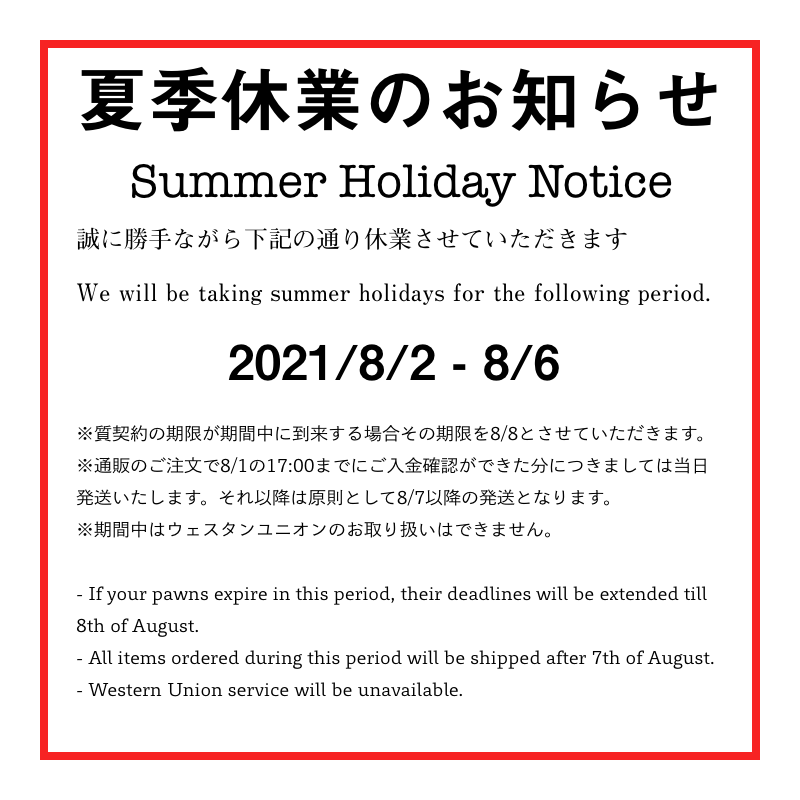
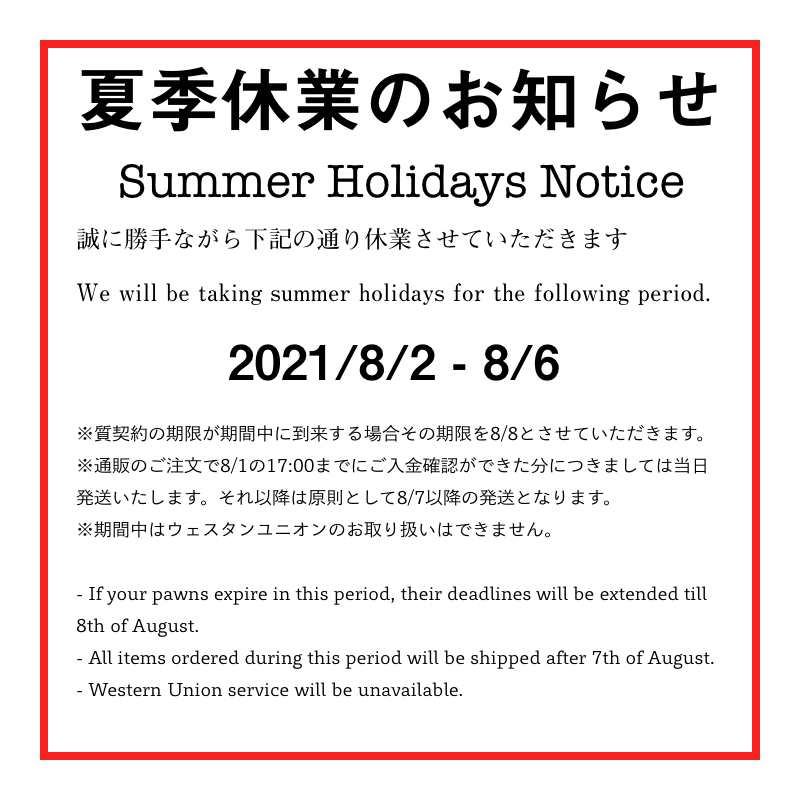
add news for summer holidays

Changed region(s): [[0.125, 0.1875, 0.875, 0.2812]]

diff --git a/site/content/news/summer-vacation-2021/index.md b/site/content/news/summer-vacation-2021/index.md
@@ -1,5 +1,5 @@
 ---
-title: "夏季休業のお知らせ Summer Holiday Notice"
+title: "夏季休業のお知らせ Summer Holidays Notice"
 date: 2021-07-01T13:35:46+09:00
 draft: false
 author: Yasu
@@ -13,7 +13,7 @@ resources:
 - src: image-1.png
   title: 夏季休業のお知らせ
 ---
-## 夏季休業のお知らせ Summer Holiday Notice
+## 夏季休業のお知らせ Summer Holidays Notice
 
 {{< blog-img "natsuyasumi_title.png" >}}
 
